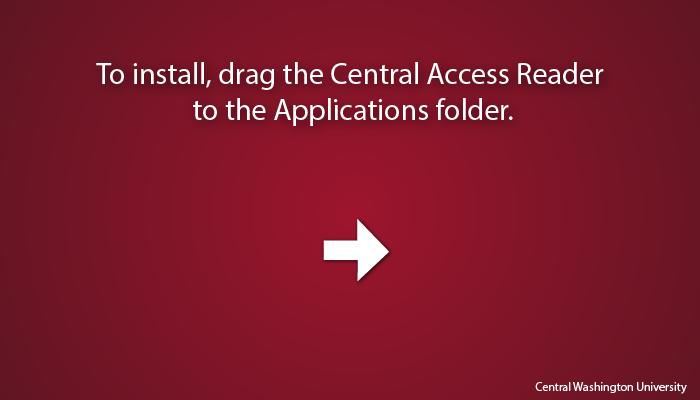
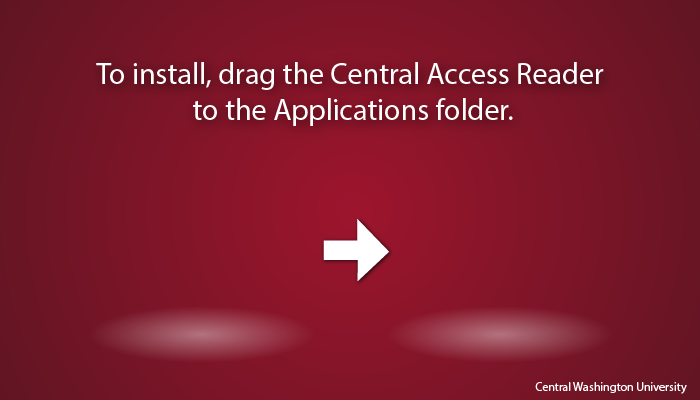
Cleaned up some print statements and edited the background for DMG more readable.

Changed region(s): [[0.15, 0.78, 0.42, 0.9], [0.6, 0.78, 0.84, 0.9]]

diff --git a/src/parsetab.py b/src/parsetab.py
@@ -5,7 +5,7 @@ _tabversion = '3.2'
 
 _lr_method = 'LALR'
 
-_lr_signature = '\xba(v\x19\xe6\xfd\xab\t\xddh|/\xee]\xc5\xad'
+_lr_signature = '\xe3<\xb5\x87\x06!d\xe0\xb1D\xcf-v\x948\xe6'
     
 _lr_action_items = {'RIGHTBRACKET':([24,25,26,42,],[32,-21,-22,-20,]),'MULTIEXPR':([10,14,15,16,17,18,19,21,22,23,27,30,32,37,44,50,52,54,],[15,-11,-16,-17,-15,-14,-12,15,-18,-13,15,15,-19,-26,-25,15,-24,-23,]),'ASSIGNS':([5,7,12,32,41,],[10,-18,27,-19,47,]),'MULTINUMBEREDEXPR':([10,14,15,16,17,18,19,21,22,23,27,30,32,37,44,50,52,54,],[16,-11,-16,-17,-15,-14,-12,16,-18,-13,16,16,-19,-26,-25,16,-24,-23,]),'ANYEXPR':([10,14,15,16,17,18,19,21,22,23,27,30,32,37,44,50,52,54,],[17,-11,-16,-17,-15,-14,-12,17,-18,-13,17,17,-19,-26,-25,17,-24,-23,]),'OUTPUTS':([14,15,16,17,18,19,20,21,22,23,29,32,34,37,44,52,54,],[-11,-16,-17,-15,-14,-12,28,-10,-18,-13,-9,-19,43,-26,-25,-24,-23,]),'LEFTPAREN':([22,46,],[30,50,]),'LEFTCARET':([22,],[31,]),'LITERAL':([10,14,15,16,17,18,19,21,22,23,27,30,32,37,44,47,50,52,54,],[18,-11,-16,-17,-15,-14,-12,18,-18,-13,18,18,-19,-26,-25,51,18,-24,-23,]),'RIGHTPAREN':([14,15,16,17,18,19,21,22,23,29,30,32,37,38,44,50,52,53,54,],[-11,-16,-17,-15,-14,-12,-10,-18,-13,-9,37,-19,-26,44,-25,52,-24,54,-23,]),'LEFTBRACKET':([5,7,10,14,15,16,17,18,19,21,22,23,27,30,32,37,44,50,52,54,],[11,-18,11,-11,-16,-17,-15,-14,-12,11,-18,-13,11,11,-19,-26,-25,11,-24,-23,]),'RIGHTCARET':([39,40,49,51,],[-28,46,-27,-29,]),'IMPORT':([0,2,6,9,35,36,48,],[4,4,4,-6,-30,-8,-7,]),'STRING':([28,43,],[35,35,]),'COMMA':([25,26,39,51,],[33,-22,45,-29,]),'ID':([0,2,4,6,9,10,11,14,15,16,17,18,19,21,22,23,27,30,31,32,33,35,36,37,44,45,48,50,52,54,],[7,7,9,7,-6,22,26,-11,-16,-17,-15,-14,-12,22,-18,-13,22,22,41,-19,26,-30,-8,-26,-25,41,-7,22,-24,-23,]),'$end':([1,2,3,6,8,9,13,35,36,48,],[0,-4,-1,-5,-2,-6,-3,-30,-8,-7,]),}
 
@@ -26,34 +26,34 @@ for _k, _v in _lr_goto_items.items():
 del _lr_goto_items
 _lr_productions = [
   ("S' -> database","S'",1,None,None,None),
-  ('database -> patterns','database',1,'p_database','/Users/graffes/Documents/workspace/NiftyProseArticulator/src/mathml/database.py',91),
-  ('patterns -> pattern patterns','patterns',2,'p_patterns','/Users/graffes/Documents/workspace/NiftyProseArticulator/src/mathml/database.py',97),
-  ('patterns -> import patterns','patterns',2,'p_patterns','/Users/graffes/Documents/workspace/NiftyProseArticulator/src/mathml/database.py',98),
-  ('patterns -> pattern','patterns',1,'p_patterns','/Users/graffes/Documents/workspace/NiftyProseArticulator/src/mathml/database.py',99),
-  ('patterns -> import','patterns',1,'p_patterns','/Users/graffes/Documents/workspace/NiftyProseArticulator/src/mathml/database.py',100),
-  ('import -> IMPORT ID','import',2,'p_import','/Users/graffes/Documents/workspace/NiftyProseArticulator/src/mathml/database.py',111),
-  ('pattern -> variable categories ASSIGNS expressions OUTPUTS output','pattern',6,'p_pattern','/Users/graffes/Documents/workspace/NiftyProseArticulator/src/mathml/database.py',117),
-  ('pattern -> variable ASSIGNS expressions OUTPUTS output','pattern',5,'p_pattern','/Users/graffes/Documents/workspace/NiftyProseArticulator/src/mathml/database.py',118),
-  ('expressions -> expression expressions','expressions',2,'p_expressions','/Users/graffes/Documents/workspace/NiftyProseArticulator/src/mathml/database.py',129),
-  ('expressions -> expression','expressions',1,'p_expressions','/Users/graffes/Documents/workspace/NiftyProseArticulator/src/mathml/database.py',130),
-  ('expression -> xml','expression',1,'p_expression','/Users/graffes/Documents/workspace/NiftyProseArticulator/src/mathml/database.py',145),
-  ('expression -> variable','expression',1,'p_expression','/Users/graffes/Documents/workspace/NiftyProseArticulator/src/mathml/database.py',146),
-  ('expression -> categories','expression',1,'p_expression','/Users/graffes/Documents/workspace/NiftyProseArticulator/src/mathml/database.py',147),
-  ('expression -> LITERAL','expression',1,'p_expression','/Users/graffes/Documents/workspace/NiftyProseArticulator/src/mathml/database.py',148),
-  ('expression -> ANYEXPR','expression',1,'p_expression','/Users/graffes/Documents/workspace/NiftyProseArticulator/src/mathml/database.py',149),
-  ('expression -> MULTIEXPR','expression',1,'p_expression','/Users/graffes/Documents/workspace/NiftyProseArticulator/src/mathml/database.py',150),
-  ('expression -> MULTINUMBEREDEXPR','expression',1,'p_expression','/Users/graffes/Documents/workspace/NiftyProseArticulator/src/mathml/database.py',151),
-  ('variable -> ID','variable',1,'p_variable','/Users/graffes/Documents/workspace/NiftyProseArticulator/src/mathml/database.py',160),
-  ('categories -> LEFTBRACKET categValues RIGHTBRACKET','categories',3,'p_categories','/Users/graffes/Documents/workspace/NiftyProseArticulator/src/mathml/database.py',167),
-  ('categValues -> categValue COMMA categValues','categValues',3,'p_categValues','/Users/graffes/Documents/workspace/NiftyProseArticulator/src/mathml/database.py',174),
-  ('categValues -> categValue','categValues',1,'p_categValues','/Users/graffes/Documents/workspace/NiftyProseArticulator/src/mathml/database.py',175),
-  ('categValue -> ID','categValue',1,'p_categValue','/Users/graffes/Documents/workspace/NiftyProseArticulator/src/mathml/database.py',188),
-  ('xml -> ID LEFTCARET attributes RIGHTCARET LEFTPAREN expressions RIGHTPAREN','xml',7,'p_xml','/Users/graffes/Documents/workspace/NiftyProseArticulator/src/mathml/database.py',195),
-  ('xml -> ID LEFTCARET attributes RIGHTCARET LEFTPAREN RIGHTPAREN','xml',6,'p_xml','/Users/graffes/Documents/workspace/NiftyProseArticulator/src/mathml/database.py',196),
-  ('xml -> ID LEFTPAREN expressions RIGHTPAREN','xml',4,'p_xml','/Users/graffes/Documents/workspace/NiftyProseArticulator/src/mathml/database.py',197),
-  ('xml -> ID LEFTPAREN RIGHTPAREN','xml',3,'p_xml','/Users/graffes/Documents/workspace/NiftyProseArticulator/src/mathml/database.py',198),
-  ('attributes -> attribute COMMA attributes','attributes',3,'p_attributes','/Users/graffes/Documents/workspace/NiftyProseArticulator/src/mathml/database.py',212),
-  ('attributes -> attribute','attributes',1,'p_attributes','/Users/graffes/Documents/workspace/NiftyProseArticulator/src/mathml/database.py',213),
-  ('attribute -> ID ASSIGNS LITERAL','attribute',3,'p_attribute','/Users/graffes/Documents/workspace/NiftyProseArticulator/src/mathml/database.py',224),
-  ('output -> STRING','output',1,'p_output','/Users/graffes/Documents/workspace/NiftyProseArticulator/src/mathml/database.py',230),
+  ('database -> patterns','database',1,'p_database','/Users/graffes/Documents/workspace/NiftyProseArticulator/src/mathml_fast/database_parser.py',83),
+  ('patterns -> pattern patterns','patterns',2,'p_patterns','/Users/graffes/Documents/workspace/NiftyProseArticulator/src/mathml_fast/database_parser.py',89),
+  ('patterns -> import patterns','patterns',2,'p_patterns','/Users/graffes/Documents/workspace/NiftyProseArticulator/src/mathml_fast/database_parser.py',90),
+  ('patterns -> pattern','patterns',1,'p_patterns','/Users/graffes/Documents/workspace/NiftyProseArticulator/src/mathml_fast/database_parser.py',91),
+  ('patterns -> import','patterns',1,'p_patterns','/Users/graffes/Documents/workspace/NiftyProseArticulator/src/mathml_fast/database_parser.py',92),
+  ('import -> IMPORT ID','import',2,'p_import','/Users/graffes/Documents/workspace/NiftyProseArticulator/src/mathml_fast/database_parser.py',103),
+  ('pattern -> variable categories ASSIGNS expressions OUTPUTS output','pattern',6,'p_pattern','/Users/graffes/Documents/workspace/NiftyProseArticulator/src/mathml_fast/database_parser.py',109),
+  ('pattern -> variable ASSIGNS expressions OUTPUTS output','pattern',5,'p_pattern','/Users/graffes/Documents/workspace/NiftyProseArticulator/src/mathml_fast/database_parser.py',110),
+  ('expressions -> expression expressions','expressions',2,'p_expressions','/Users/graffes/Documents/workspace/NiftyProseArticulator/src/mathml_fast/database_parser.py',121),
+  ('expressions -> expression','expressions',1,'p_expressions','/Users/graffes/Documents/workspace/NiftyProseArticulator/src/mathml_fast/database_parser.py',122),
+  ('expression -> xml','expression',1,'p_expression','/Users/graffes/Documents/workspace/NiftyProseArticulator/src/mathml_fast/database_parser.py',137),
+  ('expression -> variable','expression',1,'p_expression','/Users/graffes/Documents/workspace/NiftyProseArticulator/src/mathml_fast/database_parser.py',138),
+  ('expression -> categories','expression',1,'p_expression','/Users/graffes/Documents/workspace/NiftyProseArticulator/src/mathml_fast/database_parser.py',139),
+  ('expression -> LITERAL','expression',1,'p_expression','/Users/graffes/Documents/workspace/NiftyProseArticulator/src/mathml_fast/database_parser.py',140),
+  ('expression -> ANYEXPR','expression',1,'p_expression','/Users/graffes/Documents/workspace/NiftyProseArticulator/src/mathml_fast/database_parser.py',141),
+  ('expression -> MULTIEXPR','expression',1,'p_expression','/Users/graffes/Documents/workspace/NiftyProseArticulator/src/mathml_fast/database_parser.py',142),
+  ('expression -> MULTINUMBEREDEXPR','expression',1,'p_expression','/Users/graffes/Documents/workspace/NiftyProseArticulator/src/mathml_fast/database_parser.py',143),
+  ('variable -> ID','variable',1,'p_variable','/Users/graffes/Documents/workspace/NiftyProseArticulator/src/mathml_fast/database_parser.py',152),
+  ('categories -> LEFTBRACKET categValues RIGHTBRACKET','categories',3,'p_categories','/Users/graffes/Documents/workspace/NiftyProseArticulator/src/mathml_fast/database_parser.py',159),
+  ('categValues -> categValue COMMA categValues','categValues',3,'p_categValues','/Users/graffes/Documents/workspace/NiftyProseArticulator/src/mathml_fast/database_parser.py',166),
+  ('categValues -> categValue','categValues',1,'p_categValues','/Users/graffes/Documents/workspace/NiftyProseArticulator/src/mathml_fast/database_parser.py',167),
+  ('categValue -> ID','categValue',1,'p_categValue','/Users/graffes/Documents/workspace/NiftyProseArticulator/src/mathml_fast/database_parser.py',180),
+  ('xml -> ID LEFTCARET attributes RIGHTCARET LEFTPAREN expressions RIGHTPAREN','xml',7,'p_xml','/Users/graffes/Documents/workspace/NiftyProseArticulator/src/mathml_fast/database_parser.py',187),
+  ('xml -> ID LEFTCARET attributes RIGHTCARET LEFTPAREN RIGHTPAREN','xml',6,'p_xml','/Users/graffes/Documents/workspace/NiftyProseArticulator/src/mathml_fast/database_parser.py',188),
+  ('xml -> ID LEFTPAREN expressions RIGHTPAREN','xml',4,'p_xml','/Users/graffes/Documents/workspace/NiftyProseArticulator/src/mathml_fast/database_parser.py',189),
+  ('xml -> ID LEFTPAREN RIGHTPAREN','xml',3,'p_xml','/Users/graffes/Documents/workspace/NiftyProseArticulator/src/mathml_fast/database_parser.py',190),
+  ('attributes -> attribute COMMA attributes','attributes',3,'p_attributes','/Users/graffes/Documents/workspace/NiftyProseArticulator/src/mathml_fast/database_parser.py',204),
+  ('attributes -> attribute','attributes',1,'p_attributes','/Users/graffes/Documents/workspace/NiftyProseArticulator/src/mathml_fast/database_parser.py',205),
+  ('attribute -> ID ASSIGNS LITERAL','attribute',3,'p_attribute','/Users/graffes/Documents/workspace/NiftyProseArticulator/src/mathml_fast/database_parser.py',216),
+  ('output -> STRING','output',1,'p_output','/Users/graffes/Documents/workspace/NiftyProseArticulator/src/mathml_fast/database_parser.py',222),
 ]

diff --git a/src/gui/main_window.py b/src/gui/main_window.py
@@ -24,8 +24,6 @@ from speech.worker import SpeechWorker
 import misc
 from updater import GetUpdateThread, RunUpdateInstallerThread, SETUP_FILE, SETUP_TEMP_FILE, run_update_installer, is_update_downloaded, save_server_version_to_temp
 
-print 'Imported all modules for MainWindow!'
-
 class MainWindow(QtGui.QMainWindow):
     loc = 0
     len = 0
@@ -194,7 +192,6 @@ class MainWindow(QtGui.QMainWindow):
         # Save the current configuration
         self.configuration.zoom_content = self.ui.webView.getZoom()
         self.configuration.saveToFile(misc.app_data_path('configuration.xml'))
-        print 'window: speech thread quitting...'
         self.speechThread.quit()
         
     def resizeEvent(self, event):
@@ -831,9 +828,10 @@ class MainWindow(QtGui.QMainWindow):
                 result = question.exec_()
                 
                 if result == QtGui.QMessageBox.Yes:
+                    # Run the installer and close this window down
                     run_update_installer()
-                    self.app.exit(0)
-            
+                    self.close()
+                                
             else:
                 question = UpdatePromptDialog(self)
                 result = question.exec_()
@@ -842,7 +840,8 @@ class MainWindow(QtGui.QMainWindow):
                     
                     from gui.download_progress import DownloadProgressWidget
                     
-                    # Create the widget for the download right below the content view
+                    # Create the widget for the download right below the content 
+                    # view
                     self.updateDownloadProgress = DownloadProgressWidget(self)
                     self.updateDownloadProgress.setUrl(SETUP_FILE)
                     self.updateDownloadProgress.setDestination(SETUP_TEMP_FILE)

diff --git a/src/updater.py b/src/updater.py
@@ -19,7 +19,9 @@ SETUP_FILE = ''
 if platform.system() == 'Windows':
     if platform.architecture()[0] == '64bit':
         SETUP_FILE = UPDATE_URL + 'CAR_Setup_64.exe'
-        
+elif platform.system() == 'Darwin':
+    SETUP_FILE = UPDATE_URL + 'Central_Access_Reader.dmg'
+    
 SETUP_TEMP_FILE = misc.temp_path(os.path.join('update', os.path.basename(SETUP_FILE)))
 VERSION_TEMP = misc.temp_path(os.path.join('update', 'version.txt'))
 
@@ -170,6 +172,18 @@ def run_exe(exePath):
     kwargs.update(close_fds=True)
     
     p = subprocess.Popen('"' + exePath + '"', **kwargs)
+    
+def open_dmg(dmgPath):
+    '''
+    Opens a .dmg in a Mac environment.
+    '''
+    kwargs = {}
+    kwargs.update(close_fds=True)
+    kwargs.update(shell=True)
+    
+    print 'misc: opening DMG', dmgPath
+    
+    p = subprocess.Popen('open "' + dmgPath + '"', **kwargs)
 
 def run_update_installer():
     '''
@@ -179,11 +193,8 @@ def run_update_installer():
     if os.path.exists(SETUP_TEMP_FILE):
         if platform.system() == 'Windows':
             run_exe(SETUP_TEMP_FILE)
-            print 'Finished executing process!'
-            
-#             p = Process(target=run_exe, args=[SETUP_TEMP_FILE])
-#             p.start()
-#             p.cancel_join_thread()
+        elif platform.system() == 'Darwin':
+            open_dmg(SETUP_TEMP_FILE)
 
 class RunUpdateInstallerThread(Thread):
     

diff --git a/src/speech/drivers/nsss.py b/src/speech/drivers/nsss.py
@@ -120,7 +120,7 @@ class NSSpeechSynthesizerDriver(NSObject):
         '''
         Starts the TTS engine.
         '''
-        print 'driver: starting TTS'
+        #print 'driver: starting TTS'
         self._isFirstSpeech = True
         self._currentLabel = 'text'
         self._grabbingSpeech = True
@@ -154,7 +154,7 @@ class NSSpeechSynthesizerDriver(NSObject):
                     
                     # Pause here if it is set
                     if self._grabbingSpeech and self._running:
-                        print 'driver: pausing between paragraphs'
+                        #print 'driver: pausing between paragraphs'
                         time.sleep(self._pauseLength / 5.0)
             
                 self._speechGenerator = None
@@ -171,7 +171,7 @@ class NSSpeechSynthesizerDriver(NSObject):
         for c in self._delegator['onFinish']:
             c[1]()
         
-        print 'driver: done!'
+        #print 'driver: done!'
         self._done = True
         
         return
@@ -181,7 +181,7 @@ class NSSpeechSynthesizerDriver(NSObject):
         Stops the TTS playback. The TTS engine will still be running in the
         background.
         '''
-        print 'driver: stopping TTS'
+        #print 'driver: stopping TTS'
         self._running = False
         self._tts.stopSpeaking()
 

diff --git a/src/speech/worker.py b/src/speech/worker.py
@@ -90,15 +90,10 @@ class SpeechWorker(QThread):
         self.ttsEngine.disconnect(finishHandle)
         self.ttsEngine.disconnect(streamHandle)
         
-        print 'driver: stop TTS'
         self.ttsEngine.stop()
-        print 'driver: waiting for TTS to finish'
         self.ttsEngine.waitUntilDone()
-        print 'driver: destroying the engine'
         self.ttsEngine.destroy()
         del self.ttsEngine
-        
-        print 'driver: TTS engine cleaned up'
         
         self._done = True
         
@@ -114,11 +109,11 @@ class SpeechWorker(QThread):
             pass
     
     def startPlayback(self):
-        print 'worker: Trying to start TTS'
+        #print 'worker: Trying to start TTS'
         self.ttsEngine.start()
     
     def stopPlayback(self):
-        print 'worker: Trying to stop TTS'
+        #print 'worker: Trying to stop TTS'
         self.ttsEngine.stop()
             
     def stopMP3(self):
@@ -174,7 +169,7 @@ class SpeechWorker(QThread):
     
     def setSpeechGenerator(self, gen):
         self.ttsEngine.setSpeechGenerator(gen)
-        print 'worker: finished setting the speech generator'
+        #print 'worker: finished setting the speech generator'
         
     def noMoreSpeech(self):
         '''

diff --git a/src/gui/download_progress.py b/src/gui/download_progress.py
@@ -99,22 +99,24 @@ class DownloadThread(QThread):
         
     def run(self):
         self._stop = False
-            
-        destFile = open(self._dest, 'wb')
         
         def reportHook(percent):
             # I'm doing this to minimize the number of signals sent
             if percent != self._lastPercent:
                 self.downloadProgress.emit(percent)
                 self._lastPercent = percent
-                        
-        response = urllib2.urlopen(self._url, timeout=2.0)
-        contents = self.chunkRead(response, reportHook)
-            
-        if not self._stop:
-            destFile.write(contents)
         
-        destFile.close()
+        try:
+            response = urllib2.urlopen(self._url, timeout=2.0)
+            contents = self.chunkRead(response, reportHook)
+        except Exception:
+            print 'updater: encountered exception trying to read from URL'
+            self._stop = True
+        
+        if not self._stop:
+            destFile = open(self._dest, 'wb')
+            destFile.write(contents)
+            destFile.close()
             
     def chunkRead(self, response, reportHook, chunkSize=4096):
         size = int(response.info().getheader('Content-Length').strip())
